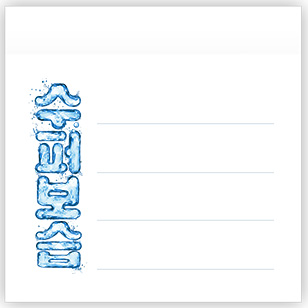
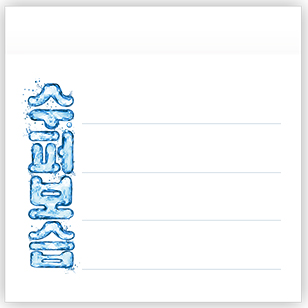
이미지 수정, 메인 섹션 2 수정

Changed region(s): [[0.0584, 0.263, 0.2922, 0.9058]]

diff --git a/css/ui.css b/css/ui.css
@@ -456,12 +456,15 @@ img {
 .main-section--02 {
   position: relative;
   background: url('../images/main-section-02-bg.jpg') no-repeat 50% 0 #f3c9b1;
+  background-size: cover;
 }
 .main-section--02 .main-section__contents {
-  height: 890px;
+/*  height: 890px;*/
+  height: 910px;
 }
 .main-section--02 .title {
-  padding: 65px 0 40px;
+/*  padding: 65px 0 40px;*/
+  padding: 65px 0 45px;
 }
 .main-section--02 .title img {
   margin: 0 auto;
@@ -470,7 +473,8 @@ img {
   margin: 0 auto;
 }
 .main-section--02 .step {
-  margin: 27px 0 2px;
+/*  margin: 27px 0 2px;*/
+  margin: 19px 0 32px;
   font-size: 0;
   line-height: 0;
   text-align: center;
@@ -616,7 +620,8 @@ img {
   padding: 37px 0 27px 25px;
 }
 .main-section--04 .entry-list .node {
-  font-size: 15px;
+/*  font-size: 15px;*/
+  font-size: 14px;
   line-height: 20px;
   font-weight: 700;
   color: #004071;

diff --git a/m/css/ui.css b/m/css/ui.css
@@ -808,7 +808,8 @@ img {
   line-height: 13px;
   color: #004071;
   font-weight: 700;
-  padding: 20px 17px 4px;
+/*  padding: 20px 17px 4px;*/
+  padding: 20px 45px 4px 15px;
 }
 .main-section--04 .entry-list > li > .node {
   font-size: 9px;
@@ -817,7 +818,8 @@ img {
   font-weight: 700;
   letter-spacing: -1px;
   margin-top: 11px;
-  padding-left: 48px;
+/*  padding-left: 48px;*/
+  padding-left: 40px;
 }
 .main-section--04 .entry-list > li > .like {
   position: absolute;
